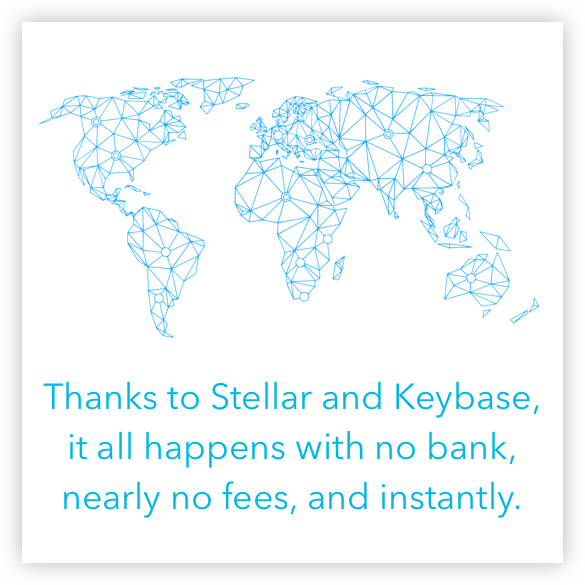
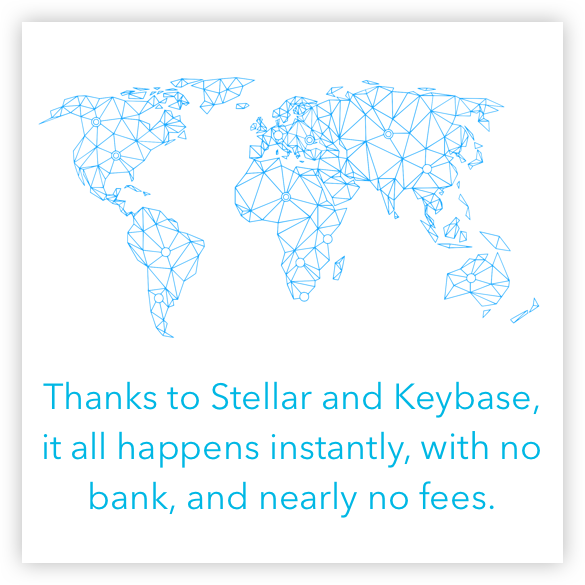
Update text blurb.

Changed region(s): [[0.0615, 0.7385, 0.9231, 0.8], [0.0923, 0.8308, 0.8923, 0.8923]]

diff --git a/index.html b/index.html
@@ -132,7 +132,7 @@
                 </div>
                 <div class="row">
                     <div class="col-md-8 col-sm-11 col-xs-12 center-col text-center text-stellar-blue wow fadeInUp no-margin-bottom" data-wow-delay="0.8s" style="padding-top: 60px;">
-                        <h6 class="font-weight-300 no-margin-bottom">Stellar Day is an initiative encouraging giving to people you value, whether it’s a podcaster you like, a friend, or a family member. Thanks to emerging tech, you can now do that with no bank account, nearly no fees, and instant transactions. <a href="#Send">Continue on </a> to learn how to give someone else a Stellar Day.</h6>
+                        <h6 class="font-weight-300 no-margin-bottom">Stellar Day is an initiative encouraging giving to people you value, whether it’s a podcaster you like, a friend, or a family member. <a href="#Send">Continue on </a> to learn how to give someone else a Stellar Day.</h6>
                     </div>
               </div>
             </div>
